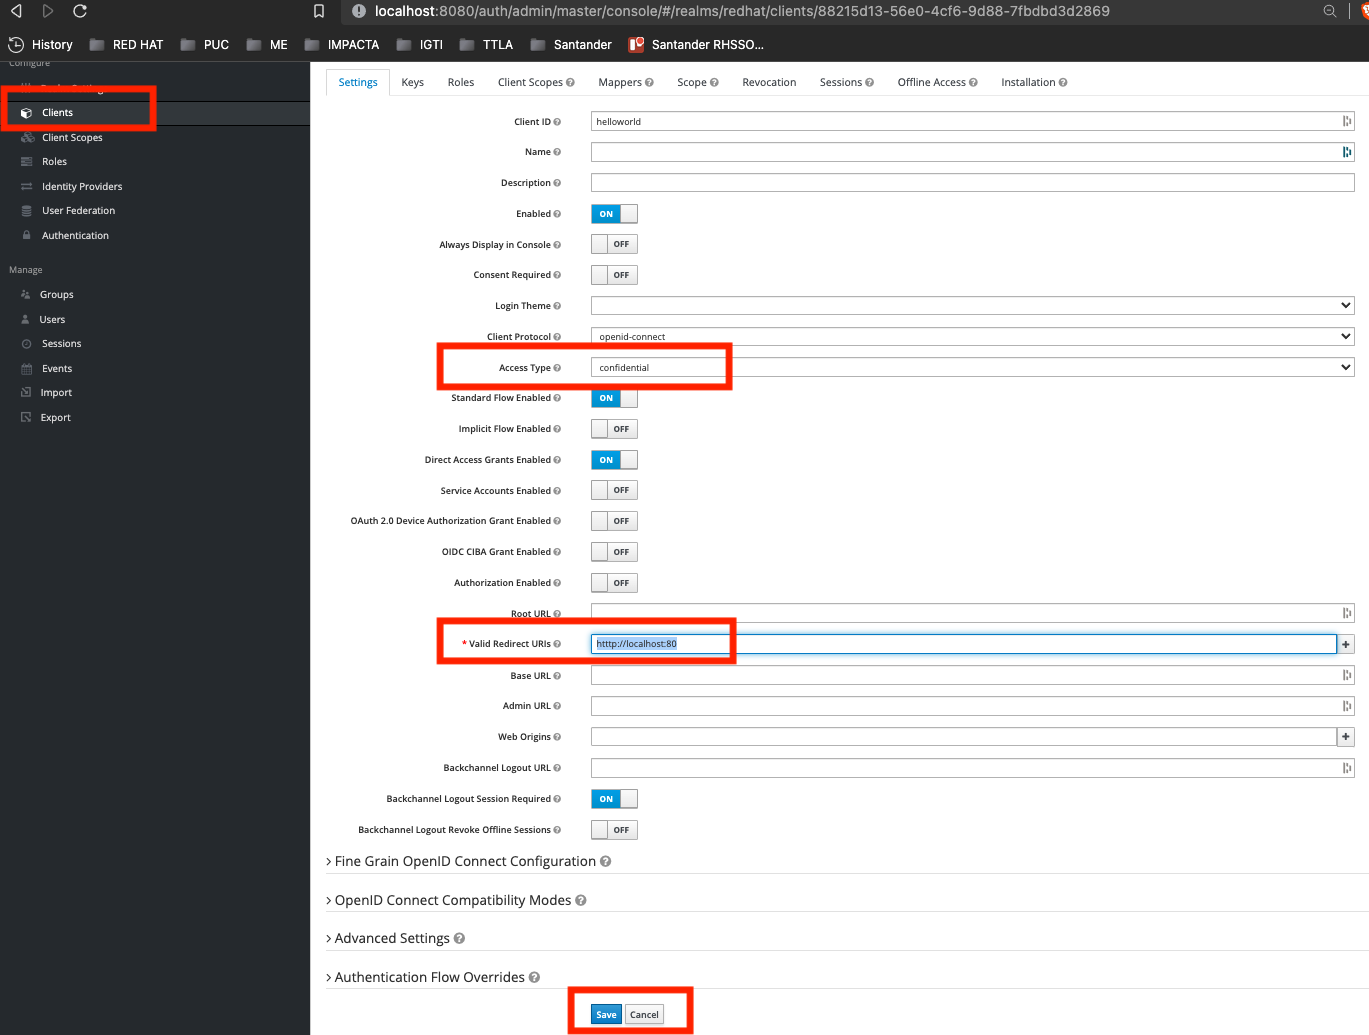
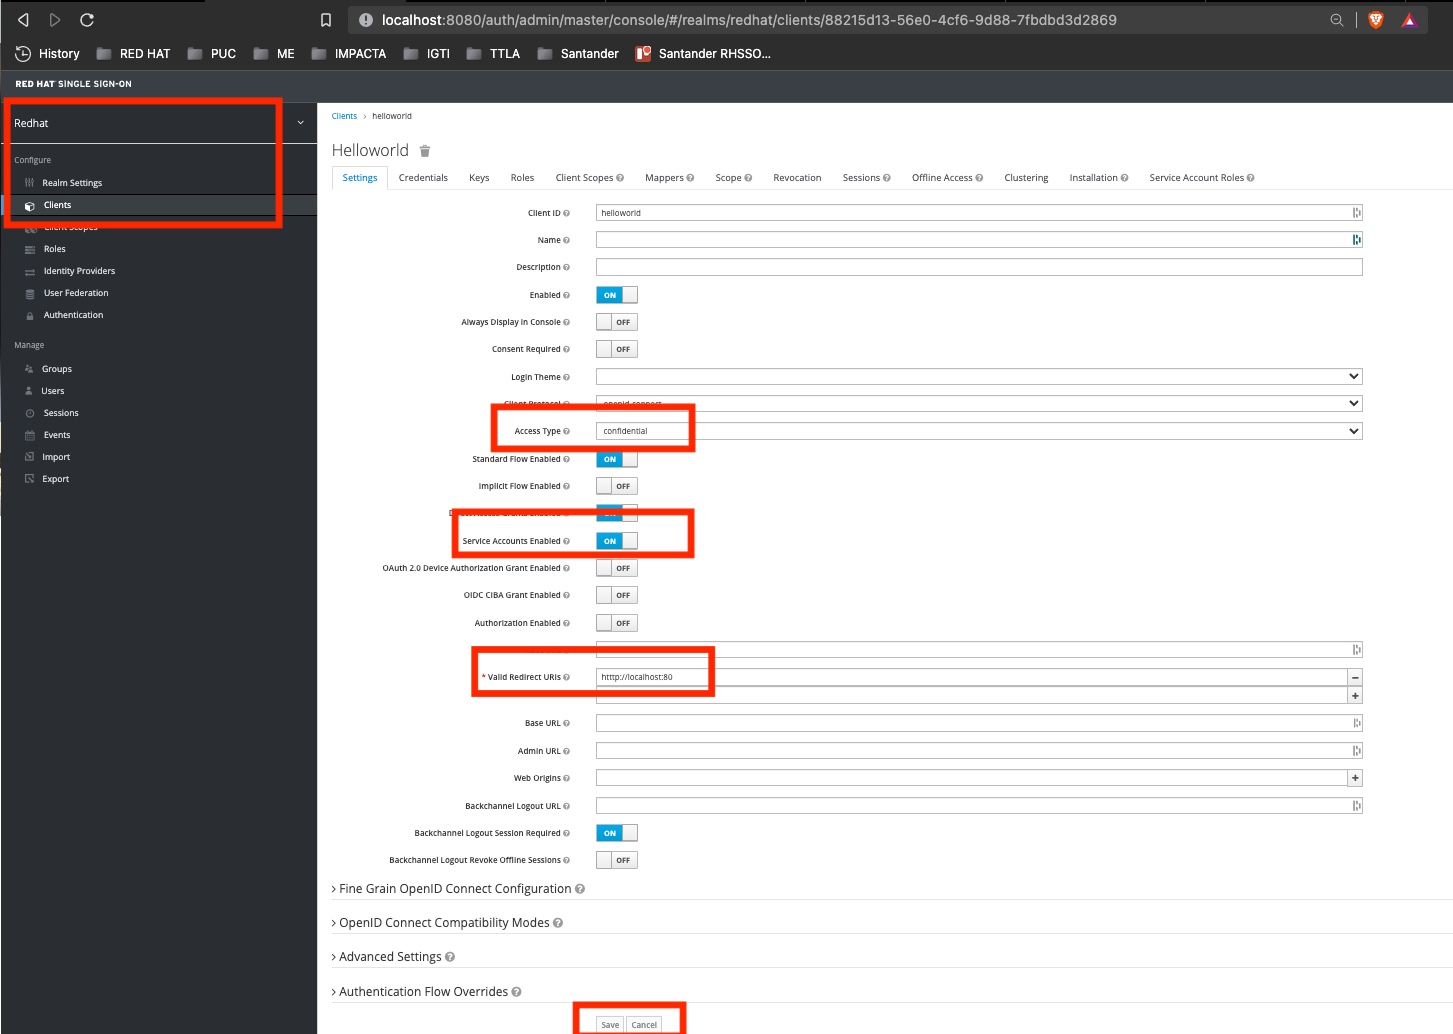
commit 1

Changed region(s): [[0.0, 0.0, 1.0, 1.0], [0.9204, 0.0, 1.0, 0.0309], [0.9204, 0.2166, 0.9511, 0.2476]]

diff --git a/README.md b/README.md
@@ -23,7 +23,8 @@ The following is intended to showcase some of the key features provided by [Red 
 
 0. [RH-SSO Deployment](#clientcredentials-step-0)
 1. [RH-SSO Setup](#clientcredentials-step-1)
-2. [RH-SSO HelloWorld Client Credentials Client](#clientcredentials-step-2)
+2. [RH-SSO HelloWorld Client Credentials Setup](#clientcredentials-step-2)
+3. [RH-SSO HelloWorld Client Credentials Test](#clientcredentials-step-3)
 
 ## Deployment
 
@@ -81,7 +82,7 @@ The following is intended to showcase some of the key features provided by [Red 
 
   ![Red Hat Realm](images/Setup/redhat_realm.png)
 
-### 2. RH-SSO HelloWorld Client Credentials Client <a name="clientcredentials-step-2">
+### 2. RH-SSO HelloWorld Client Credentials Setup <a name="clientcredentials-step-2">
 
 * Double-check if you're on **Red Hat Realm**, if not, please select it before moving forward
 
@@ -97,6 +98,8 @@ The following is intended to showcase some of the key features provided by [Red 
 
 * Inform `htttp://localhost:80` for *Valid Redirect URIs*
 
+* Change the *Service Accounts Enabled* to **ON**
+
 * Finally click on *Save* button:
 
   ![Red Hat Hello World Clients Setup](images/HelloWorldClientCredentialsClient/redhat_helloworld_client_setup.png)
@@ -106,6 +109,18 @@ The following is intended to showcase some of the key features provided by [Red 
   ![Red Hat Hello World Clients Secret](images/HelloWorldClientCredentialsClient/redhat_secret.png)
 
   * please take note of the *secret* value
+
+### 3. RH-SSO HelloWorld Client Credentials Test <a name="clientcredentials-step-3">
+
+* Open a new terminal session and try to obtain a token from **Red Hat Single Sign On**
+
+  ```
+  curl --location --request POST 'http://localhost:8080/auth/realms/redhat/protocol/openid-connect/token' \
+    --header 'Content-Type: application/x-www-form-urlencoded' \
+    --data-urlencode 'client_id=helloworld' \
+    --data-urlencode 'client_secret=34ec8805-60c7-4130-8705-c157c83045bd' \
+    --data-urlencode 'grant_type=client_credentials'
+  ```
 
 ## Additional References <a name="additional-references">
 
